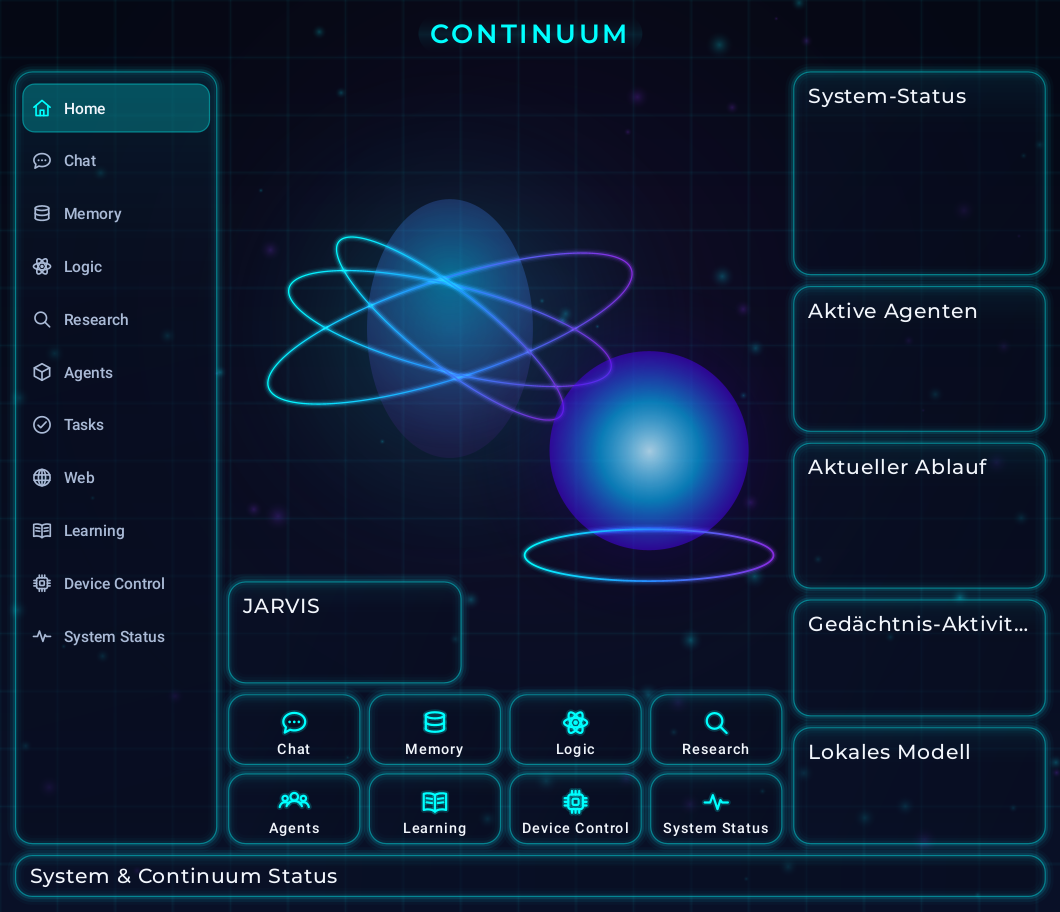
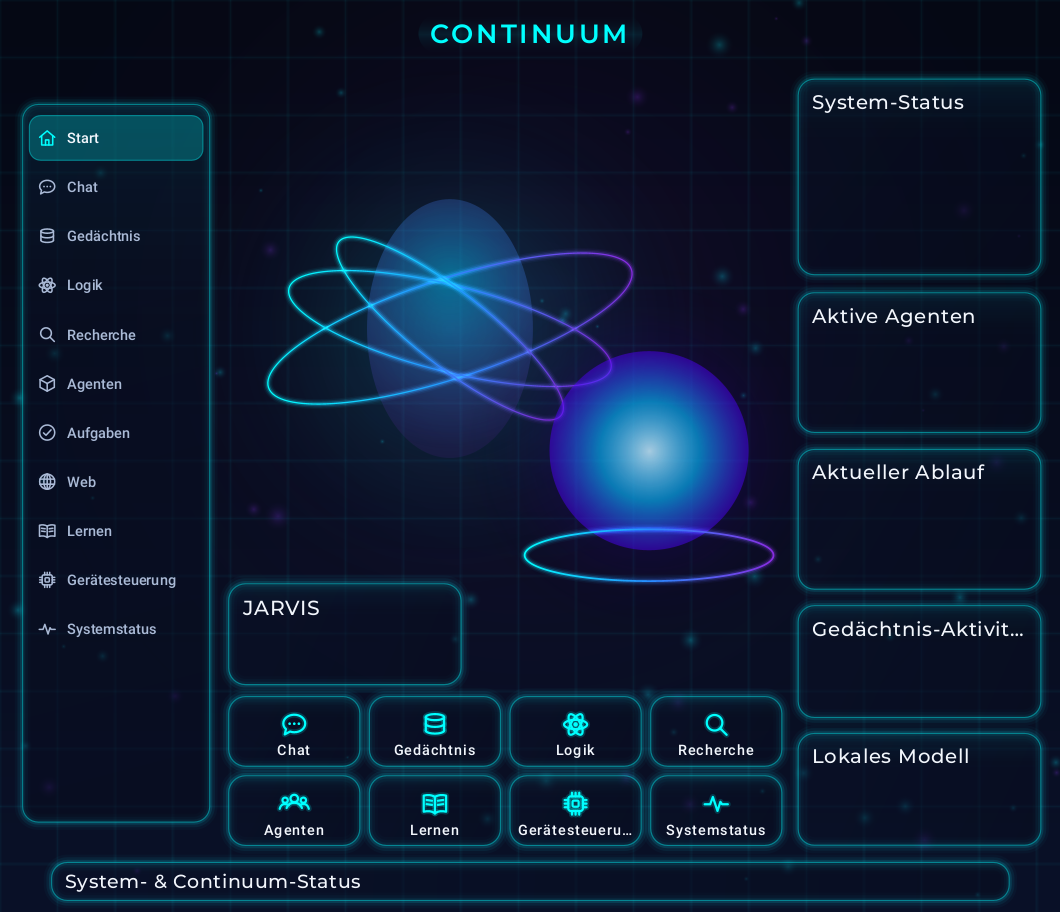
WIP: Z-Ebenen-Logik (JarvisMotion.Depth) + Bloom-API (JarvisNeon.bloom/bloomRoundRect, aktiver Text/Rand); Android-Tiefe (Camera/Tiefen-Blur) noch nicht implementiert; Jarvis* 21/21 grün

Changed region(s): [[0.0, 0.0614, 0.9962, 1.0]]

diff --git a/app/src/main/java/at/heinz/deviceai/ui/JarvisNeon.kt b/app/src/main/java/at/heinz/deviceai/ui/JarvisNeon.kt
@@ -36,7 +36,10 @@ object JarvisNeon {
         p.fillRoundRect(l + 1f, t + 1f, r - 1f, t + (b - t) * .35f, radius - 1f,
             Fill.Linear(0f, t, 0f, t + (b - t) * .35f, intArrayOf(Argb.of(18, 0, 255, 255), 0)))
         p.strokeRoundRect(l, t, r, b, radius, 1f, Fill.Solid(Colors.rim))
-        if (active) p.strokeRoundRect(l, t, r, b, radius, 1.4f, Fill.Solid(Colors.activeWhite), .5f)
+        if (active) {
+            bloomRoundRect(p, l, t, r, b, radius, Colors.cyan, glowBoost)
+            p.strokeRoundRect(l, t, r, b, radius, 1.4f, Fill.Solid(Colors.activeWhite), .5f)
+        }
     }
 
     /** Neon line (light trail, laser connection, divider). */
@@ -69,6 +72,30 @@ object JarvisNeon {
         p.strokeOval(cx - rx, cy - ry, cx + rx, cy + ry, width, fill)
     }
 
+    /**
+     * Bloom: shared emissive light (VIDEO-ANALYSE Signatur 4 "starkes Bloom"), also for Jarvis Avatar.
+     * Three additive radial layers: white-hot core, colour body, wide violet veil. [intensity] 0..1 (>1 allowed for alarms).
+     */
+    fun bloom(p: ContinuumPainter, cx: Float, cy: Float, radius: Float, color: Int = Colors.cyan, intensity: Float = 1f) {
+        if (intensity <= 0f || radius <= 0f) return
+        p.setAdditive(true)
+        p.fillCircle(cx, cy, radius * 2.4f, Fill.Radial(cx, cy, radius * 2.4f, intArrayOf(Argb.withAlpha(Colors.violet, .10f * intensity), 0)))
+        p.fillCircle(cx, cy, radius * 1.3f, Fill.Radial(cx, cy, radius * 1.3f, intArrayOf(Argb.withAlpha(color, .28f * intensity), 0)))
+        p.fillCircle(cx, cy, radius * .45f, Fill.Radial(cx, cy, radius * .45f, intArrayOf(Argb.withAlpha(Colors.activeWhite, .30f * intensity), 0)))
+        p.setAdditive(false)
+    }
+
+    /** Bloom around a rounded rect (active panel / button). */
+    fun bloomRoundRect(p: ContinuumPainter, l: Float, t: Float, r: Float, b: Float, radius: Float, color: Int = Colors.cyan,
+                       intensity: Float = 1f) {
+        if (intensity <= 0f) return
+        p.setAdditive(true)
+        floatArrayOf(14f, 8f, 3f).forEachIndexed { i, s ->
+            p.strokeRoundRect(l, t, r, b, radius, s, Fill.Solid(color), (.05f + .07f * i) * intensity)
+        }
+        p.setAdditive(false)
+    }
+
     /** Radial light pool behind hero content (head, brain orb). */
     fun halo(p: ContinuumPainter, cx: Float, cy: Float, radius: Float, color: Int = Colors.cyan, strength: Float = .35f) =
         p.fillCircle(cx, cy, radius, Fill.Radial(cx, cy, radius, intArrayOf(Argb.withAlpha(color, strength), 0)))
@@ -78,7 +105,7 @@ object JarvisNeon {
      * No offset copies, so large system fonts stay single and sharp.
      */
     fun text(p: ContinuumPainter, s: String, x: Float, y: Float, style: TextStyle, color: Int = Colors.cyan,
-             align: TextAlign = TextAlign.LEFT, glow: Glow = Glow.SUBTLE) {
+             align: TextAlign = TextAlign.LEFT, glow: Glow = Glow.SUBTLE, active: Boolean = false) {
         if (glow != Glow.OFF && s.isNotEmpty()) {
             val w = p.measureText(s, style); val h = p.capHeight(style)
             val l = when (align) { TextAlign.LEFT -> x; TextAlign.CENTER -> x - w / 2f; TextAlign.RIGHT -> x - w }
@@ -88,6 +115,11 @@ object JarvisNeon {
                 Fill.Linear(0f, y - h - pad, 0f, y + pad, intArrayOf(0, Argb.withAlpha(color, glow.haloAlpha * .45f), 0)))
             p.setAdditive(false)
         }
-        p.drawText(s, x, y, style, Fill.Solid(color), align)
+        if (active && s.isNotEmpty()) {
+            val w = p.measureText(s, style)
+            val cx = when (align) { TextAlign.LEFT -> x + w / 2f; TextAlign.CENTER -> x; TextAlign.RIGHT -> x - w / 2f }
+            bloom(p, cx, y - p.capHeight(style) / 2f, maxOf(w * .45f, style.size), color, .6f)
+        }
+        p.drawText(s, x, y, style, Fill.Solid(if (active) Argb.mix(color, Colors.activeWhite, .35f) else color), align)
     }
 }

diff --git a/app/src/main/java/at/heinz/deviceai/ui/JarvisMotion.kt b/app/src/main/java/at/heinz/deviceai/ui/JarvisMotion.kt
@@ -145,6 +145,59 @@ object JarvisMotion {
     fun idleOffset(timeMs: Long, amplitudeDp: Float = 2.5f, animatorScale: Float = 1f): Float =
         if (off(animatorScale)) 0f else amplitudeDp * sin(2f * PI.toFloat() * (timeMs % Durations.IDLE_PERIOD) / Durations.IDLE_PERIOD)
 
+    /**
+     * Z-depth layers (VIDEO-ANALYSE Signatur 7 "UI schwebt in Z-Tiefe", 8 "Kamera nie statisch").
+     * Pure logic: depth → scale / blur / tilt / drift. Amplitudes and periods are GESCHÄTZT (Videos nennen keine Zahlen).
+     */
+    object Depth {
+        enum class Layer(val z: Int) { NEAR(0), MID(1), FAR(2) }
+
+        /** Android View cameraDistance in dp (multiply by density); GESCHÄTZT. */
+        const val CAMERA_DISTANCE_DP = 1600f
+        const val SCALE_PER_LAYER = .035f      // far panels slightly smaller
+        const val BLUR_PER_LAYER_DP = 1.2f     // depth of field; kept small for legibility
+        const val MAX_TILT_DEG = 4f            // "leichte Neigung", wenige Grad
+        const val DRIFT_PERIOD_MS = 14_000L    // slow camera drift
+        const val DRIFT_DP = 3f                // per layer factor (1 + z)
+
+        data class State(val scale: Float, val blurDp: Float, val rotationX: Float, val rotationY: Float,
+                         val dx: Float, val dy: Float)
+
+        val FLAT = State(1f, 0f, 0f, 0f, 0f, 0f)
+
+        fun scale(layer: Layer) = 1f - SCALE_PER_LAYER * layer.z
+        fun blurDp(layer: Layer) = BLUR_PER_LAYER_DP * layer.z
+
+        /** Tilt towards the screen centre: panels left of centre turn right (+Y) and vice versa. */
+        fun tiltY(cardCenterX: Float, screenWidth: Float): Float {
+            if (screenWidth <= 0f) return 0f
+            val n = ((cardCenterX - screenWidth / 2f) / (screenWidth / 2f)).coerceIn(-1f, 1f)
+            return -MAX_TILT_DEG * n
+        }
+
+        fun tiltX(cardCenterY: Float, screenHeight: Float): Float {
+            if (screenHeight <= 0f) return 0f
+            val n = ((cardCenterY - screenHeight / 2f) / (screenHeight / 2f)).coerceIn(-1f, 1f)
+            return MAX_TILT_DEG * .5f * n
+        }
+
+        /** Continuous drift (dx, dy in dp); deeper layers move more (parallax). 0 for reduced motion. */
+        fun drift(timeMs: Long, layer: Layer, animatorScale: Float = 1f): Pair<Float, Float> {
+            if (off(animatorScale)) return 0f to 0f
+            val ph = 2f * PI.toFloat() * (timeMs % DRIFT_PERIOD_MS) / DRIFT_PERIOD_MS
+            val a = DRIFT_DP * (1 + layer.z)
+            return a * sin(ph) to a * .6f * sin(2f * ph + 1f)
+        }
+
+        /** Full state; reduced motion keeps depth scale/blur (static composition) but no tilt drift animation. */
+        fun state(layer: Layer, cardCenterX: Float, cardCenterY: Float, width: Float, height: Float, timeMs: Long,
+                  animatorScale: Float = 1f): State {
+            val (dx, dy) = drift(timeMs, layer, animatorScale)
+            val wobble = if (off(animatorScale)) 0f else .6f * sin(2f * PI.toFloat() * (timeMs % DRIFT_PERIOD_MS) / DRIFT_PERIOD_MS)
+            return State(scale(layer), blurDp(layer), tiltX(cardCenterY, height) + wobble, tiltY(cardCenterX, width) + wobble, dx, dy)
+        }
+    }
+
     /** Draws a glass card in [f] state; [content] draws inside the transformed card. */
     fun drawCard(p: ContinuumPainter, f: Frame, l: Float, t: Float, r: Float, b: Float, content: (ContinuumPainter) -> Unit = {}) {
         if (f.alpha <= 0f || f.scale <= 0f) return

diff --git a/app/src/main/java/at/heinz/deviceai/ui/JarvisShellRenderer.kt b/app/src/main/java/at/heinz/deviceai/ui/JarvisShellRenderer.kt
@@ -20,6 +20,16 @@ object JarvisShellRenderer {
         fun drawBackground(width: Float, height: Float, timeMs: Long): Boolean
         /** Draws blurred backdrop + rim glow for one panel in the current transform; true if done natively. */
         fun drawPanelGlass(box: Box, radius: Float, glow: Float): Boolean
+        /** Start a depth layer for one panel (Android: Camera rotationX/Y + RenderEffect depth blur). true if handled. */
+        fun beginDepth(box: Box, depth: JarvisMotion.Depth.State): Boolean = false
+        fun endDepth() {}
+    }
+
+    /** Depth layer per slot (Z-Ebenen). Tiles/dialog/input near, side panels mid, frame elements far. */
+    fun layerOf(slot: Slot?): JarvisMotion.Depth.Layer = when (slot) {
+        null, Slot.DIALOG, Slot.INPUT -> JarvisMotion.Depth.Layer.NEAR
+        Slot.COCKPIT_PRIMARY, Slot.COCKPIT_SECONDARY, Slot.ROW_AGENTS, Slot.ROW_TASKS, Slot.ROW_MEMORY, Slot.ROW_MODEL -> JarvisMotion.Depth.Layer.MID
+        else -> JarvisMotion.Depth.Layer.FAR
     }
 
     private val bare = setOf(Slot.AVATAR, Slot.TOP_BAR)
@@ -46,8 +56,12 @@ object JarvisShellRenderer {
             val slot = cardSlots.getOrNull(i)
             val tileIndex = i - cardSlots.size
             if (f.alpha <= 0f || f.scale <= 0f) return@forEachIndexed
+            val depth = JarvisMotion.Depth.state(layerOf(slot), box.centerX, box.centerY(), shell.width, shell.height, timeMs, animatorScale)
             p.save()
-            p.translate(f.dx, f.dy); p.scale(f.scale, f.scale, box.centerX, box.centerY())
+            p.translate(f.dx + depth.dx, f.dy + depth.dy)
+            val k = f.scale * depth.scale
+            p.scale(k, k, box.centerX, box.centerY())
+            val depthNative = glass?.beginDepth(box, depth) == true
             val r = JarvisDesign.Metrics.radiusCard
             val native = glass?.drawPanelGlass(box, r, f.glow) == true
             JarvisNeon.glassCard(p, box.left, box.top, box.right, box.bottom, r,
@@ -59,6 +73,7 @@ object JarvisShellRenderer {
                 slot != null -> header(p, box, label(slot))
                 tileIndex < tiles.size -> JarvisTiles.draw(p, box, tiles[tileIndex])
             }
+            if (depthNative) glass?.endDepth()
             p.restore()
         }
     }

diff --git a/app/src/test/java/at/heinz/deviceai/ui/JarvisMotionTest.kt b/app/src/test/java/at/heinz/deviceai/ui/JarvisMotionTest.kt
@@ -75,4 +75,14 @@ class JarvisMotionTest {
         with(JarvisMotion.Easing) { listOf(linear, easeOutCubic, easeInOutCubic, easeOutQuint, easeInExpo, easeInOutSine, easeOutBack) }
             .forEach { assertEquals(0f, it(0f), .001f); assertEquals(1f, it(1f), .001f) }
     }
+
+    @Test fun depthLayersScaleBlurTiltDrift() {
+        val D = JarvisMotion.Depth
+        assertTrue(D.scale(JarvisMotion.Depth.Layer.FAR) < D.scale(JarvisMotion.Depth.Layer.MID) && D.scale(JarvisMotion.Depth.Layer.MID) < D.scale(JarvisMotion.Depth.Layer.NEAR))
+        assertEquals(0f, D.blurDp(JarvisMotion.Depth.Layer.NEAR), 0f); assertTrue(D.blurDp(JarvisMotion.Depth.Layer.FAR) > D.blurDp(JarvisMotion.Depth.Layer.MID))
+        assertTrue(D.tiltY(100f, 1000f) > 0f && D.tiltY(900f, 1000f) < 0f)
+        assertTrue(kotlin.math.abs(D.tiltY(0f, 1000f)) <= D.MAX_TILT_DEG)
+        assertTrue(D.drift(3500, JarvisMotion.Depth.Layer.FAR).first > D.drift(3500, JarvisMotion.Depth.Layer.NEAR).first)
+        assertEquals(0f to 0f, D.drift(3500, JarvisMotion.Depth.Layer.FAR, 0f))
+    }
 }

diff --git a/DESIGN_TEST_RESULTS.md b/DESIGN_TEST_RESULTS.md
@@ -14,3 +14,7 @@
 ## Review 1 (4.11.2026)
 - `--tests 'at.heinz.deviceai.ui.Jarvis*'` (inkl. compileDebugKotlin mit JarvisGlassRenderer/AGSL): **JarvisMotionTest 12/12, JarvisShellLayoutTest 8/8 grün**.
 - Vorschau neu gerendert (`docs/design-screenshots/`). Das ist der Java2D-**Fallback-Pfad**: Blur und AGSL-Glow sind darin NICHT sichtbar und nur angenähert. Frame-Zeit auf dem Gerät nicht gemessen (kein Fold7).
+
+## Kontrollgang 2, Abschluss (4.11.2026)
+- `--tests 'at.heinz.deviceai.ui.Jarvis*'`: **JarvisMotionTest 13/13, JarvisShellLayoutTest 8/8 grün** (neu: Tiefen-Logik).
+- Vorschau neu gerendert (deutsche Texte, Fallback-Pfad).
